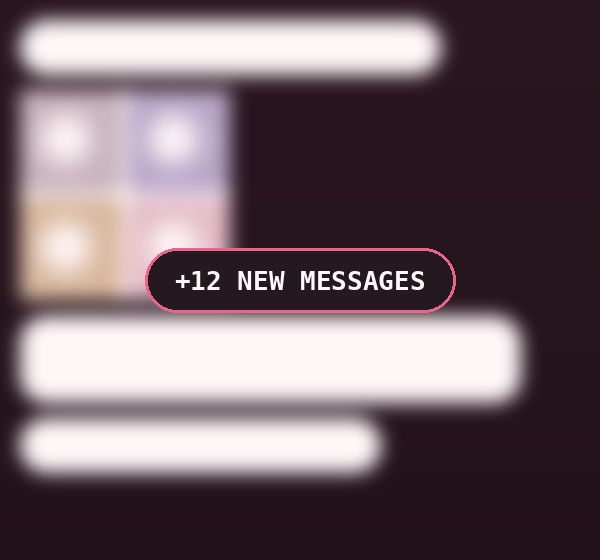
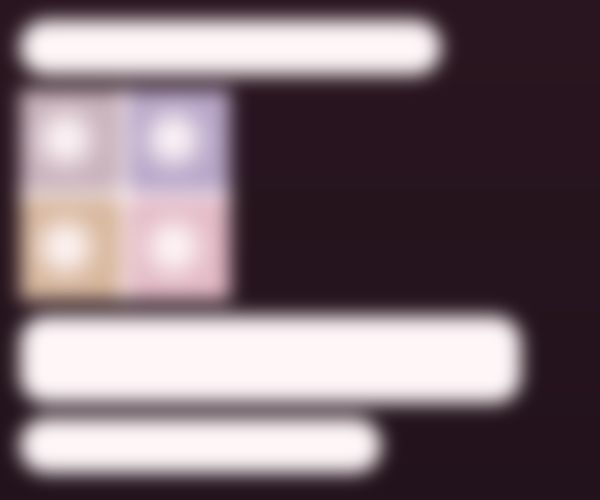
email: '+12 new messages' pill is real text, not part of the picture
The blurred chat preview no longer has the pill drawn in. It sits under
the image as a linked text pill, so it still reads when images are
blocked. PREVIEW_COUNT lives in thread-email.ts and feeds both the pill
and the plain-text twin. Preview image trimmed to its content (600x500).

Claude-Session: https://claude.ai/code/session_01PzgrGFZi1kv62NJgTxFX6n

diff --git a/supabase/functions/_shared/teaser-assets.ts b/supabase/functions/_shared/teaser-assets.ts
@@ -1,3 +1,3 @@
 // GENERATED by tools/blur-leaks.py. Do not edit; re-run the script.
[3 lines of base64/hex data omitted]

diff --git a/supabase/functions/_shared/thread-email.ts b/supabase/functions/_shared/thread-email.ts
@@ -18,8 +18,8 @@
 //      has nothing to guess at.
 //    · IMAGES TRAVEL WITH THE MESSAGE (cid:), because the blurred preview is
 //      the hook and Outlook hides remote images from a new sender. The preview
-//      is one pre-made picture (tools/blur-leaks.py): email can't blur live
-//      content or lay a pill over an image.
+//      is one pre-made picture (tools/blur-leaks.py) because email can't blur
+//      live content; the "+12 new messages" pill under it is real text.
 //    · A PLAIN-TEXT TWIN, always.
 //
 //  The pixel font (VT323) loads where web fonts work (Apple Mail, iOS Mail).
@@ -30,6 +30,8 @@ import { escapeHtml } from './handset-email.ts';
 import { PREVIEW_JPG_B64, AVATAR_PNG_B64 } from './teaser-assets.ts';
 
 export const PREVIEW_CID = 'preview';
+/** Messages waiting on the site after the email's three. Keep in step with the site's chat. */
+export const PREVIEW_COUNT = 12;
 export const AVATAR_CID = 'khushi';
 
 export interface TeaserInput {
@@ -142,9 +144,17 @@ ${lines.map((l, i) => bubble(l, i)).join('')}
         <tr><td align="center" style="padding:4px 0 0">
           <div class="b" style="animation-delay:${previewAt}s">
           <a href="${link}" style="display:block;text-decoration:none">
-            <img src="cid:${PREVIEW_CID}" width="392" alt="+12 new messages from khushi. open the chat to read them"
+            <img src="cid:${PREVIEW_CID}" width="392" alt="the rest of the chat, blurred"
                  style="display:block;width:100%;max-width:392px;height:auto;border:0" />
           </a>
+          </div>
+        </td></tr>
+        <!-- the pill is real text, not part of the picture: it reads with images off -->
+        <tr><td align="center" style="padding:10px 0 0">
+          <div class="b" style="animation-delay:${previewAt}s">
+          <a href="${link}" style="display:inline-block;background-color:#241821;border:1.5px solid #eb648c;color:#fff6f8;
+                     border-radius:20px;padding:8px 18px;font-family:${PIXEL};font-size:10px;letter-spacing:.06em;
+                     text-decoration:none">+${PREVIEW_COUNT} NEW MESSAGES</a>
           </div>
         </td></tr>
         </table>
@@ -183,7 +193,7 @@ ${lines.map((l, i) => bubble(l, i)).join('')}
 remember the slumber party?
 well... it happened. and i have something for you
 
-+12 new messages. open the chat:
++${PREVIEW_COUNT} new messages. open the chat:
 ${input.link}
 
 khushi

diff --git a/tools/blur-leaks.py b/tools/blur-leaks.py
@@ -22,9 +22,6 @@ SRC = ROOT / 'assets/email/leaks'
 OUT = ROOT / 'assets/email/leaks-blur.jpg'
 TILE, GAP, SIZE = 292, 16, 600
 TINTS = ['#c9b3bd', '#b9a7c9', '#d8b89e', '#e4bcc8']
-# Messages waiting on the site after the email's three. Keep in step with the
-# site's chat, or the pill promises a number the page doesn't deliver.
-PREVIEW_COUNT = 12
 
 photos = sorted(p for p in SRC.glob('*') if p.suffix.lower() in ('.jpg', '.jpeg', '.png', '.webp'))[:4]
 if len(photos) < 4:
@@ -55,10 +52,10 @@ av.save(ROOT / 'assets/email/khushi-avatar.png', optimize=True)
 print(f"wrote assets/email/khushi-avatar.png ({(ROOT / 'assets/email/khushi-avatar.png').stat().st_size // 1024}KB)")
 
 # The teaser's "rest of the chat": a few cream bubbles and the photo grid,
-# blurred, with the "+N new messages" pill drawn on top. Email can't layer
-# HTML over an image or blur live content, so this is one picture.
-from PIL import ImageFont
-W, H = 600, 560
+# blurred. Email can't blur live content, so this is one picture. The
+# "+N new messages" pill is NOT drawn in: it is real text under the image in
+# thread-email.ts, so it still reads when images are blocked.
+W, H = 600, 500
 # Background is a vertical ramp matching the email's gradient where the image
 # sits (sampled from a render), so the picture has no visible box edge.
 pv = Image.new('RGB', (W, H))
@@ -76,16 +73,6 @@ for w_, h_ in [(420, 54), (330, 210), (500, 86), (360, 54)]:
         d.rounded_rectangle((20, y, 20 + w_, y + h_), 26, fill='#fff6f8')
     y += h_ + 16
 pv = pv.filter(ImageFilter.GaussianBlur(9))
-d = ImageDraw.Draw(pv)
-try:
-    font = ImageFont.truetype('DejaVuSansMono-Bold.ttf', 26)
-except OSError:
-    font = ImageFont.load_default()
-label = f'+{PREVIEW_COUNT} NEW MESSAGES'
-tw = d.textlength(label, font=font)
-bx, by = (W - tw) / 2 - 30, H / 2 - 32
-d.rounded_rectangle((bx, by, bx + tw + 60, by + 64), 32, fill='#241821', outline='#eb648c', width=3)
-d.text((bx + 30, by + 17), label, fill='#fff6f8', font=font)
 PREVIEW = ROOT / 'assets/email/chat-preview.jpg'
 pv.save(PREVIEW, 'JPEG', quality=80, optimize=True, progressive=True)
 print(f'wrote {PREVIEW.relative_to(ROOT)} ({PREVIEW.stat().st_size // 1024}KB)')
